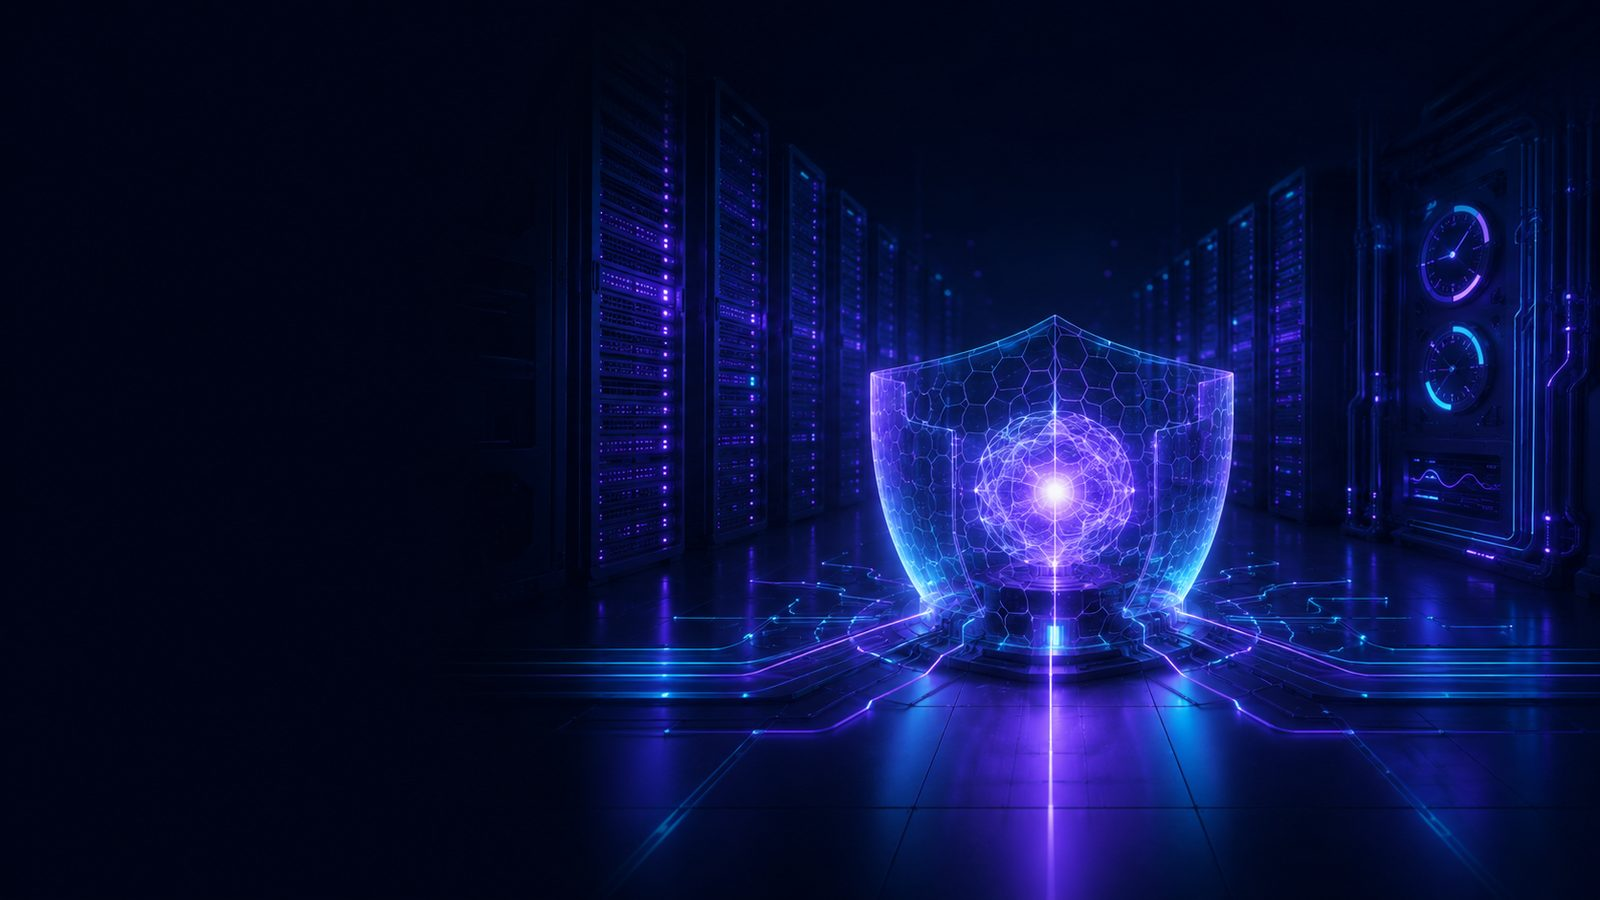
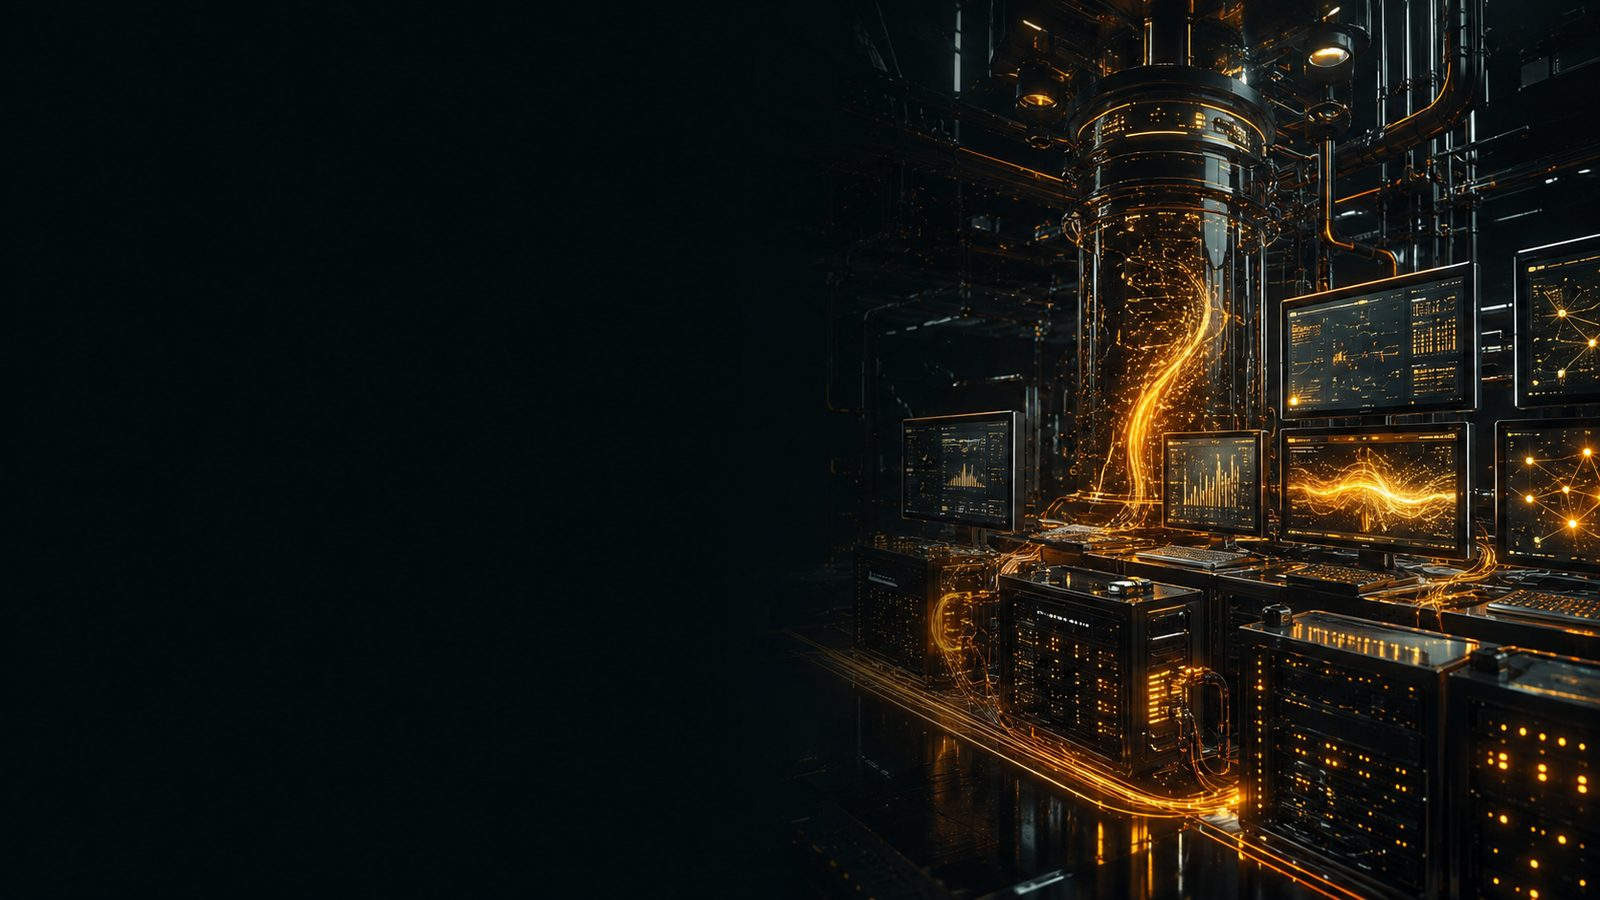
Regenerate all 17 covers with diverse accent colors (Graphite+Emerald base)
- Each article gets a distinct accent color matching its topic (emerald, blue, violet, amber, pink, cyan, orange, indigo, teal, sky, green, purple, red, etc.)
- Hero + Editor's Pick banner regenerated with emerald brand color
- Fixed hero/banner image paths to point at public/articles/ (where regenerate script outputs)
- All on graphite near-black background for cohesion with the new theme

diff --git a/src/components/sections/hero.tsx b/src/components/sections/hero.tsx
@@ -8,7 +8,7 @@ import { formatDate } from "@/lib/utils";
 /** Real ChatGPT-generated full-bleed hero backdrop. */
 function hasWideHero(): boolean {
   try {
-    return fs.existsSync(path.join(process.cwd(), "public", "images", "hero-wide.jpg"));
+    return fs.existsSync(path.join(process.cwd(), "public", "articles", "hero-ai.jpg"));
   } catch {
     return false;
   }
@@ -38,7 +38,7 @@ export function Hero({ featuredArticle }: HeroProps) {
           <>
             {/* eslint-disable-next-line @next/next/no-img-element */}
             <img
-              src="/images/hero-wide.jpg"
+              src="/articles/hero-ai.jpg"
               alt=""
               fetchPriority="high"
               decoding="async"

diff --git a/src/components/sections/editors-pick.tsx b/src/components/sections/editors-pick.tsx
@@ -12,7 +12,7 @@ export function EditorsPickBanner({ article }: { article: ArticleMeta | null }) 
       className="relative w-full overflow-hidden"
       aria-labelledby="editors-pick-heading"
       style={{
-        backgroundImage: 'url("/images/editors-pick-banner.jpg")',
+        backgroundImage: 'url("/articles/editors-pick-banner.jpg")',
         backgroundSize: "cover",
         backgroundPosition: "center",
         backgroundRepeat: "no-repeat",

diff --git a/scripts/regenerate-covers.py b/scripts/regenerate-covers.py
@@ -1,0 +1,189 @@
+#!/usr/bin/env python3
+"""Regenerate all ThinkMode covers with diverse accent colors matching each article's topic.
+
+Graphite+Emerald base: dark graphite/near-black background (#07110F/#0D1916),
+each cover gets a distinct accent color from a wide palette.
+Each prompt: subject-appropriate + left-negative-space so headline text is readable.
+"""
+
+import json
+import subprocess
+import sys
+from pathlib import Path
+
+ROOT = Path(r"C:/Users/tabdo/Desktop/TM/thinkmode")
+ART_DIR = ROOT / "cover-art"
+OUT_DIR = ROOT / "public" / "articles"
+STATE_FILE = ART_DIR / "state-regen.json"
+
+# Wide accent palette — distinct per article, all on graphite background
+COVERS = [
+    {
+        "slug": "the-rise-of-ai-agents-and-what-it-means-for-developers",
+        "accent": "#17B890", "accent2": "#B7E4C7",
+        "subject": "a swarm of glowing AI agent nodes connected by luminous task-flow threads forming a network, digital autonomous helpers orbiting a central brain-core",
+    },
+    {
+        "slug": "how-ai-agents-actually-work",
+        "accent": "#3B82F6", "accent2": "#93C5FD",
+        "subject": "an exploded diagram of an AI agent: a glowing planner module, a memory vault, and tool connectors, rendered as floating holographic blocks wired by light",
+    },
+    {
+        "slug": "a-complete-guide-to-building-llm-applications",
+        "accent": "#8B5CF6", "accent2": "#C4B5FD",
+        "subject": "a large language model pipeline: glowing tokens streaming through layered transformer rings, prompt-to-response flow as luminous particles",
+    },
+    {
+        "slug": "building-production-ready-ai-applications",
+        "accent": "#F59E0B", "accent2": "#FCD34D",
+        "subject": "a production AI system in motion: monitoring dashboards, inference servers and data streams as a living mechanical organism, warm industrial glow",
+    },
+    {
+        "slug": "understanding-transformers-without-the-math",
+        "accent": "#EC4899", "accent2": "#F9A8D4",
+        "subject": "attention visualized: soft glowing vectors pointing between words in a sentence, abstract flowing lines of meaning connecting floating text fragments",
+    },
+    {
+        "slug": "nextjs-for-modern-developers",
+        "accent": "#06B6D4", "accent2": "#67E8F9",
+        "subject": "a modern web app architecture: nested route layers, server components and edge functions as interlocking translucent glass panels glowing cyan",
+    },
+    {
+        "slug": "rust-vs-go-which-language-should-you-choose",
+        "accent": "#F97316", "accent2": "#FDBA74",
+        "subject": "two contrasting language spirits side by side: a rugged rust-colored gear-machine of safety on one side, a swift teal concurrency stream on the other",
+    },
+    {
+        "slug": "typescript-patterns-that-scale",
+        "accent": "#6366F1", "accent2": "#A5B4FC",
+        "subject": "type-safe architecture: interlocking geometric type lattices and constraint meshes forming a crystalline blueprint, indigo glow",
+    },
+    {
+        "slug": "kubernetes-without-the-tears",
+        "accent": "#14B8A6", "accent2": "#5EEAD4",
+        "subject": "calm container orchestration: neat pods floating in balanced clusters on gentle waves, a serene control plane with soft teal light, no chaos",
+    },
+    {
+        "slug": "docker-for-developers-who-just-want-things-to-work",
+        "accent": "#0EA5E9", "accent2": "#7DD3FC",
+        "subject": "containers as stacked shipping boxes sealing apps perfectly, a whale of lightweight isolation carrying glowing packages, sky-blue calm",
+    },
+    {
+        "slug": "ci-cd-pipelines-that-developers-love",
+        "accent": "#22C55E", "accent2": "#86EFAC",
+        "subject": "a smooth automated pipeline: code flowing through test, build and deploy gates as a green luminous river of progress, satisfying automation",
+    },
+    {
+        "slug": "edge-rendering-explained",
+        "accent": "#A855F7", "accent2": "#D8B4FE",
+        "subject": "edge nodes spread across a glowing world map, content rendered at the rim closest to users, light jumping from globe edge to user, violet",
+    },
+    {
+        "slug": "zero-trust-security-for-web-developers",
+        "accent": "#EF4444", "accent2": "#FCA5A5",
+        "subject": "a zero-trust shield: every request verified by glowing identity keys, no implicit trust, layered verification gates as red protective light",
+    },
+    {
+        "slug": "developer-toolchain-2026",
+        "accent": "#10B981", "accent2": "#6EE7B7",
+        "subject": "a curator's workbench of developer tools: terminals, editors, AI copilots and CLIs as floating precision instruments glowing emerald",
+    },
+    {
+        "slug": "workflow-automation-beyond-cron-jobs",
+        "accent": "#EAB308", "accent2": "#FDE047",
+        "subject": "intelligent automation: event-driven flows branching like living roots, triggers sparking actions across a luminous golden web",
+    },
+]
+
+# Hero + Banner use emerald (brand) but distinct compositions
+EXTRAS = [
+    {
+        "slug": "hero-ai",
+        "accent": "#17B890", "accent2": "#B7E4C7",
+        "subject": "an abstract human profile head rendered as translucent glass, wired with glowing emerald circuitry and neural pathways, facing left",
+        "wide": True,
+    },
+    {
+        "slug": "editors-pick-banner",
+        "accent": "#17B890", "accent2": "#B7E4C7",
+        "subject": "ultra-wide cinematic AI/tech visualization with glowing neural pathways, holographic code structures and data flowing through crystalline circuits",
+        "wide": True,
+    },
+]
+
+PROMPT_TMPL = (
+    "ThinkMode technology blog cover. Dark graphite near-black background (#07110F with #0D1916 surfaces), "
+    "premium editorial photography style, cinematic lighting. "
+    "Subject on the RIGHT side: {subject}. "
+    "Accent lighting in {accent} with {accent2} highlights. "
+    "LEFT {left_pct}% kept as clean dark negative space (no elements, no text) for white headline overlay. "
+    "No text, no letters, no logos, no watermarks. "
+    "16:9, sharp 8K, magazine-quality, restrained and elegant."
+)
+
+WIDE_TMPL = (
+    "ThinkMode technology blog banner, ultra-wide 21:9 cinematic landscape. "
+    "Dark graphite near-black background (#07110F), premium editorial style. "
+    "Subject on the RIGHT {pct}%: {subject}. "
+    "Accent lighting in {accent} with {accent2} highlights. "
+    "LEFT kept as clean dark negative space for white headline overlay. "
+    "No text, no letters, no logos, no watermarks. Sharp 8K, magazine-quality."
+)
+
+
+def main():
+    ART_DIR.mkdir(parents=True, exist_ok=True)
+    OUT_DIR.mkdir(parents=True, exist_ok=True)
+
+    items = []
+    for c in COVERS:
+        items.append((c["slug"], c, False))
+    for c in EXTRAS:
+        items.append((c["slug"], c, True))
+
+    for slug, c, is_wide in items:
+        out_jpg = OUT_DIR / f"{slug}.jpg"
+        if out_jpg.exists():
+            print(f"[skip] {slug} (exists)")
+            continue
+        if is_wide:
+            prompt = WIDE_TMPL.format(pct="60%", subject=c["subject"], accent=c["accent"], accent2=c["accent2"])
+        else:
+            prompt = PROMPT_TMPL.format(subject=c["subject"], accent=c["accent"], accent2=c["accent2"], left_pct="55%")
+
+        cmd = [
+            "node", "bin/chatgpt-web-image.js", "generate",
+            "--prompt", prompt,
+        ]
+        env = {
+            "CHATGPT_CDP_URL": "http://127.0.0.1:9224",
+            "CHATGPT_ALLOW_REMOTE_CDP": "true",
+            "CHATGPT_IMAGE_OUTPUT_DIR": str(ART_DIR),
+        }
+        print(f"[gen] {slug} ...", flush=True)
+        proc = subprocess.run(cmd, cwd=r"C:/Users/tabdo/chatgpt-web-image-mcp",
+                              env={**__import__("os").environ, **env},
+                              capture_output=True, text=True, timeout=300)
+        try:
+            payload = json.loads(proc.stdout[proc.stdout.index("{"):])
+        except Exception:
+            print(f"  [FAIL] {slug}: {proc.stdout[-300:]}")
+            continue
+        if not payload.get("ok"):
+            print(f"  [FAIL] {slug}: {payload}")
+            continue
+        img = payload["images"][0]["filePath"]
+        # optimize + move
+        from PIL import Image
+        im = Image.open(img).convert("RGB")
+        w, h = im.size
+        maxw = 1600 if not is_wide else 2200
+        if w > maxw:
+            ratio = maxw / w
+            im = im.resize((maxw, int(h * ratio)), Image.LANCZOS)
+        im.save(out_jpg, "JPEG", quality=82, optimize=True, progressive=True)
+        print(f"  [ok] {slug} -> {out_jpg.name} ({out_jpg.stat().st_size//1024}KB)")
+
+
+if __name__ == "__main__":
+    main()
